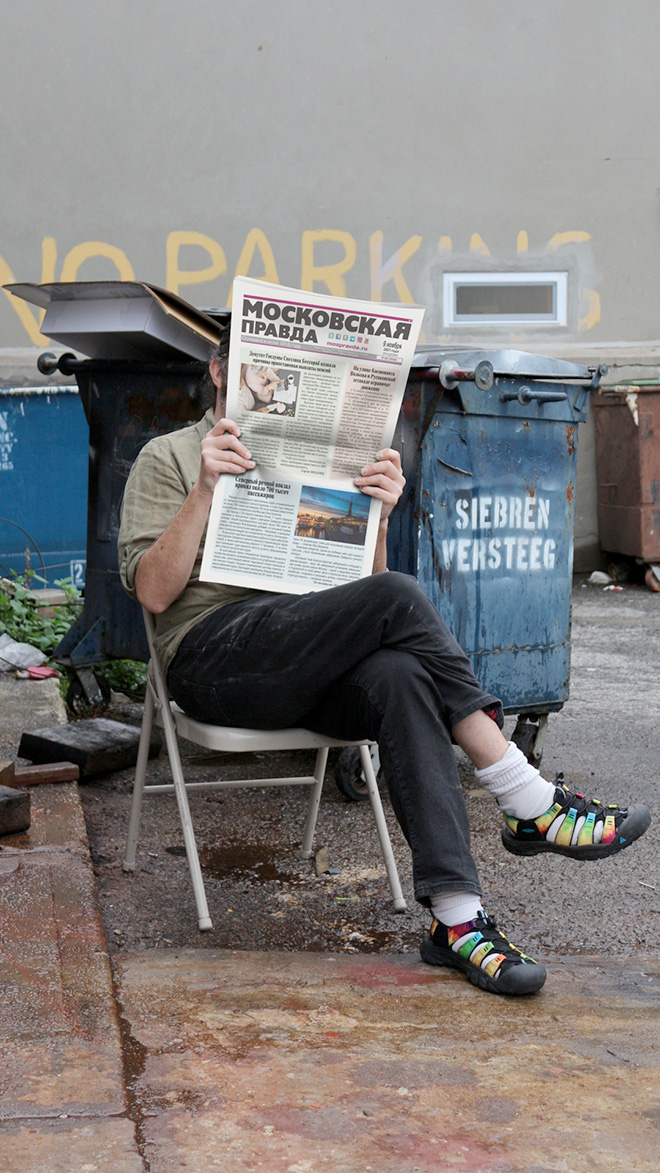
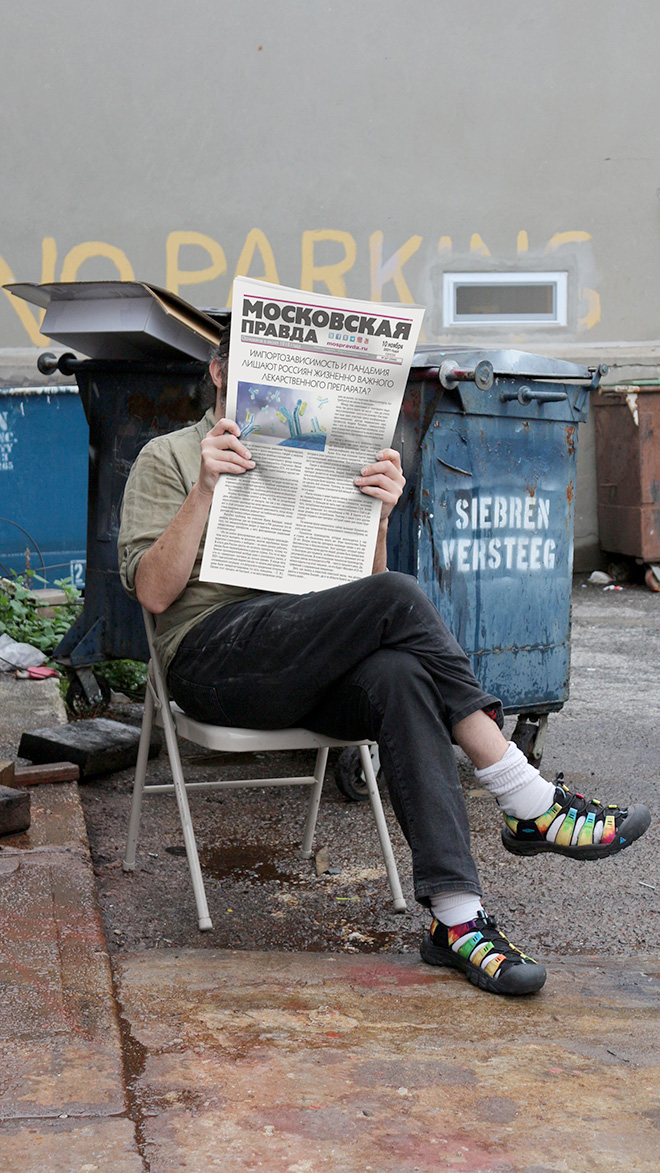
siebren

Changed region(s): [[0.303, 0.2455, 0.6061, 0.5217]]

diff --git a/index.html b/index.html
@@ -155,7 +155,7 @@
 						<div class="author">Кевин Маккой</div>
 					</li>
 					<li>
-						<a href="#modal-work32" class="js-modal-link"><img src="/assets/images/works/work32.jpg?10112021" alt="Утренняя газета" title="Утренняя газета"></a>
+						<a href="#modal-work32" class="js-modal-link"><img src="/assets/images/works/work32.jpg?11112021" alt="Утренняя газета" title="Утренняя газета"></a>
 						<h3><a href="#modal-work32" class="js-modal-link">Ежедневная правда</a></h3>
 						<div class="author">Сибрен Верстиг</div>
 					</li>
@@ -1504,7 +1504,7 @@
 				<div class="title">Ежедневная правда</div>
 				<div class="authors">Сибрен Верстиг</div>
 				<div class="media">
-					<a href="/assets/images/works/work32_full.jpg?10112021" class="js-lightbox picture"><img src="/assets/images/works/work32.jpg?10112021" alt="Ежедневная правда"></a>
+					<a href="/assets/images/works/work32_full.jpg?11112021" class="js-lightbox picture"><img src="/assets/images/works/work32.jpg?11112021" alt="Ежедневная правда"></a>
 				</div>
 				<div class="credits">
 					<p><span class="line"><span class="label">сайт автора:</span><br><a href="http://www.siebrenversteeg.com/" target="_blank">siebrenversteeg.com</a></span><br><br><!-- <span class="line"><span class="label">работа размещена:</span><br><a href="https://www.artblocks.io/token/120000131" target="_blank">artblocks.io/token/120000131</a></span> --></p>

diff --git a/en/index.html b/en/index.html
@@ -155,7 +155,7 @@
 						<div class="author">Kevin McCoy</div>
 					</li>
 					<li>
-						<a href="#modal-work32" class="js-modal-link"><img src="/assets/images/works/work32.jpg?10112021" alt="Today’s Paper" title="Today’s Paper"></a>
+						<a href="#modal-work32" class="js-modal-link"><img src="/assets/images/works/work32.jpg?11112021" alt="Today’s Paper" title="Today’s Paper"></a>
 						<h3><a href="#modal-work32" class="js-modal-link">Daily Truth</a></h3>
 						<div class="author">Siebren Verstieg</div>
 					</li>
@@ -1500,7 +1500,7 @@
 				<div class="title">Daily Truth</div>
 				<div class="authors">Siebren Verstieg</div>
 				<div class="media">
-					<a href="/assets/images/works/work32_full.jpg?10112021" class="js-lightbox picture"><img src="/assets/images/works/work32.jpg?10112021" alt="Daily Truth"></a>
+					<a href="/assets/images/works/work32_full.jpg?11112021" class="js-lightbox picture"><img src="/assets/images/works/work32.jpg?11112021" alt="Daily Truth"></a>
 				</div>
 				<div class="credits">
 					<p><span class="line"><span class="label">author site:</span><br><a href="http://www.siebrenversteeg.com/" target="_blank">siebrenversteeg.com</a></span><br><br><!-- <span class="line"><span class="label">work placed:</span><br><a href="https://www.artblocks.io/token/120000131" target="_blank">artblocks.io/token/120000131</a></span> --></p>
